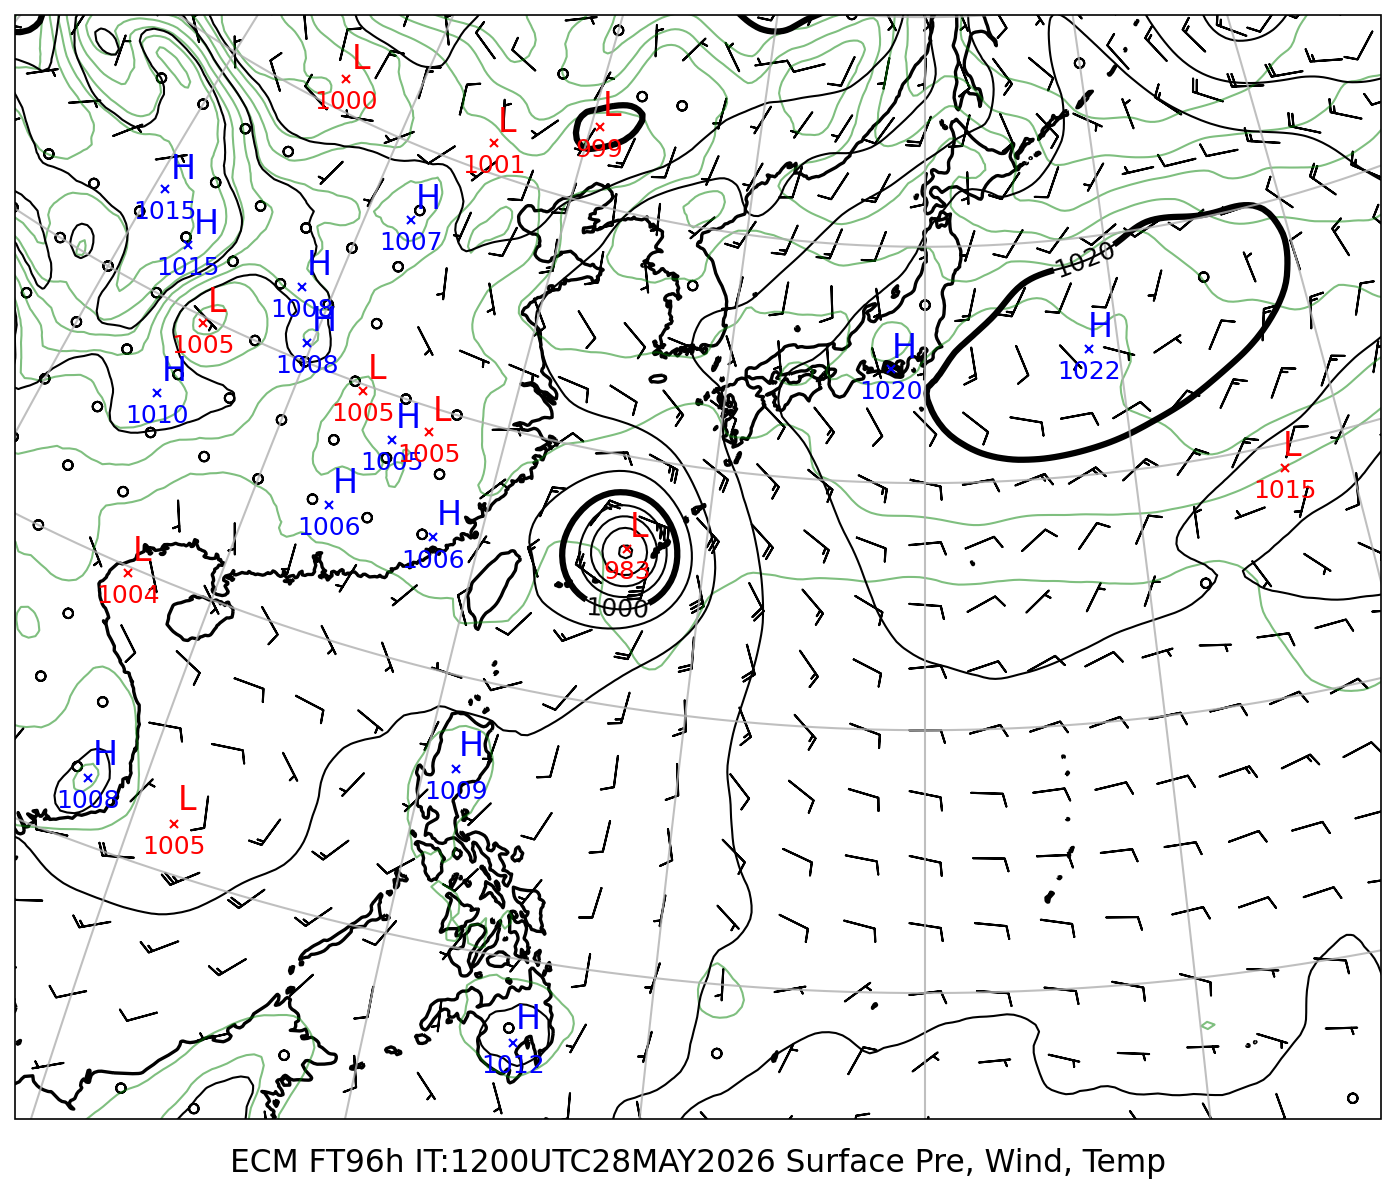
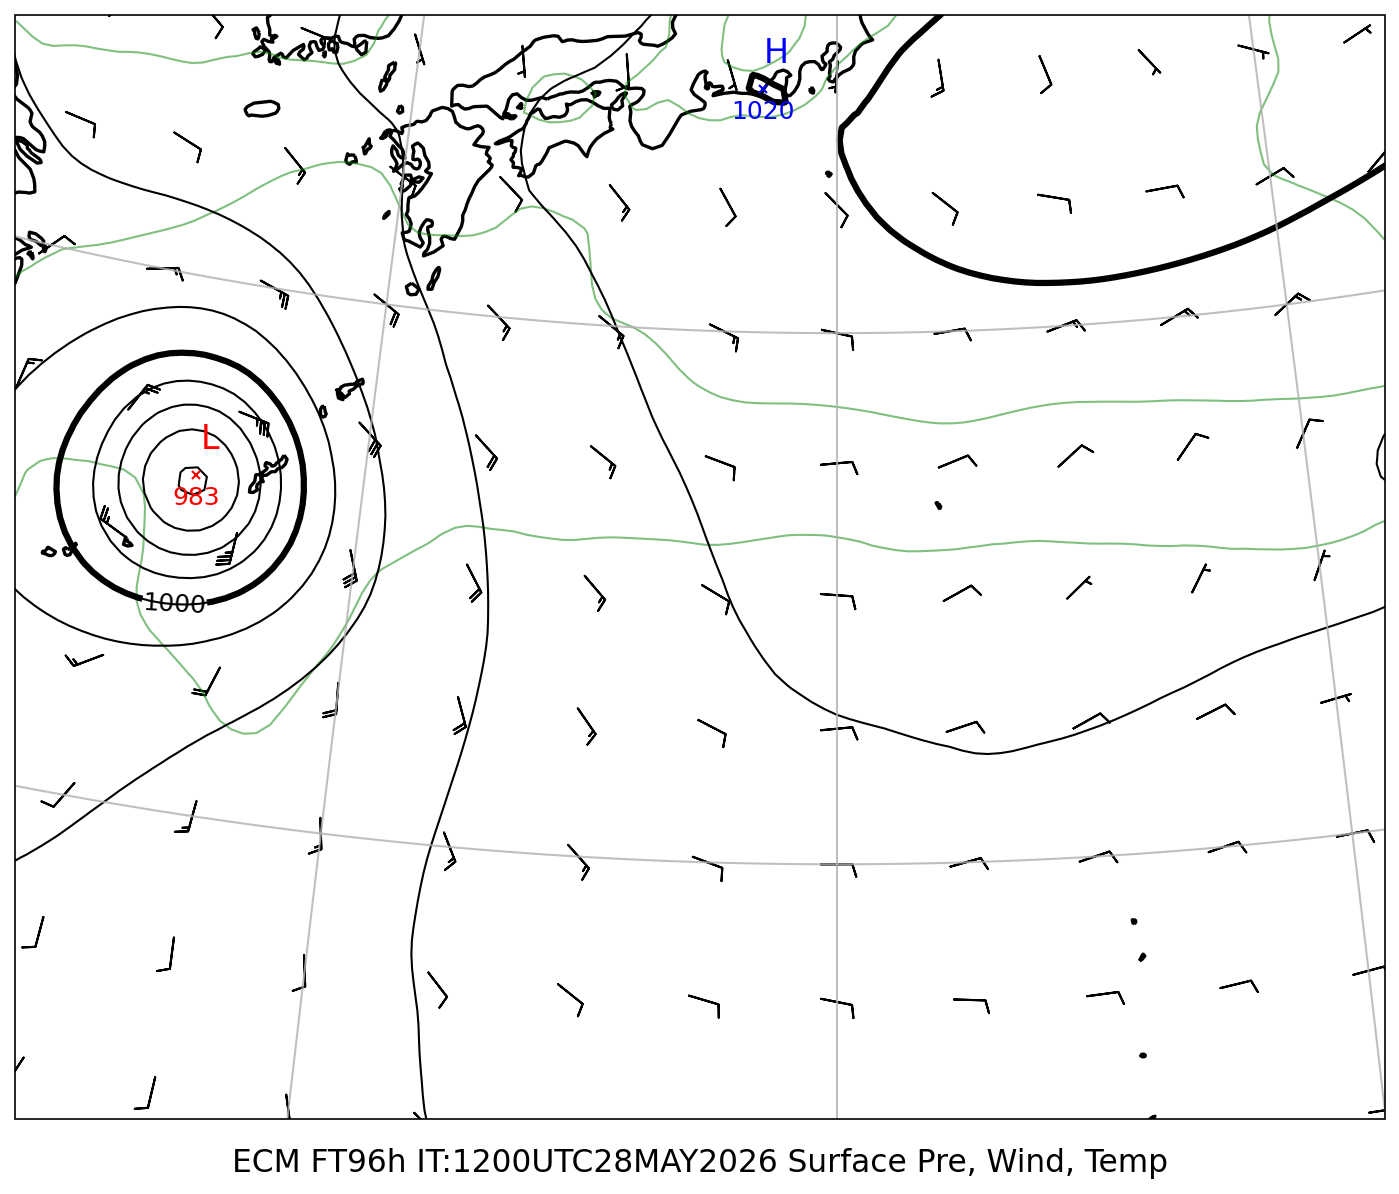
report: 地上気圧比較レポート GSM+ECM+GFS FT72-96 (2026052812)

diff --git a/reports/2026052812/srf_comparison_FT72-96.md b/reports/2026052812/srf_comparison_FT72-96.md
@@ -1,0 +1,38 @@
+# 地上気圧 マルチモデル比較レポート
+
+**初期時刻**: 2026/05/28 12UTC
+**描画範囲**: LON 125.0〜150.0°E  LAT 15.0〜35.0°N
+
+---
+
+## 地上気圧・10m風・2m気温
+
+#### FT=72h (5/31 21時JST)
+
+| GSM | ECMWF | GFS |
+|:---:|:---:|:---:|
+| ![GSM FT=72h](./2026052812_FT072h_GSM_SurfacePressure.png) | ![ECMWF FT=72h](./2026052812_FT072h_ECM_SurfacePressure.png) | ![GFS FT=72h](./2026052812_FT072h_GFS_SurfacePressure.png) |
+
+#### FT=78h (6/1 3時JST)
+
+| GSM | ECMWF | GFS |
+|:---:|:---:|:---:|
+| ![GSM FT=78h](./2026052812_FT078h_GSM_SurfacePressure.png) | ![ECMWF FT=78h](./2026052812_FT078h_ECM_SurfacePressure.png) | ![GFS FT=78h](./2026052812_FT078h_GFS_SurfacePressure.png) |
+
+#### FT=84h (6/1 9時JST)
+
+| GSM | ECMWF | GFS |
+|:---:|:---:|:---:|
+| ![GSM FT=84h](./2026052812_FT084h_GSM_SurfacePressure.png) | ![ECMWF FT=84h](./2026052812_FT084h_ECM_SurfacePressure.png) | ![GFS FT=84h](./2026052812_FT084h_GFS_SurfacePressure.png) |
+
+#### FT=90h (6/1 15時JST)
+
+| GSM | ECMWF | GFS |
+|:---:|:---:|:---:|
+| ![GSM FT=90h](./2026052812_FT090h_GSM_SurfacePressure.png) | ![ECMWF FT=90h](./2026052812_FT090h_ECM_SurfacePressure.png) | ![GFS FT=90h](./2026052812_FT090h_GFS_SurfacePressure.png) |
+
+#### FT=96h (6/1 21時JST)
+
+| GSM | ECMWF | GFS |
+|:---:|:---:|:---:|
+| ![GSM FT=96h](./2026052812_FT096h_GSM_SurfacePressure.png) | ![ECMWF FT=96h](./2026052812_FT096h_ECM_SurfacePressure.png) | ![GFS FT=96h](./2026052812_FT096h_GFS_SurfacePressure.png) |
